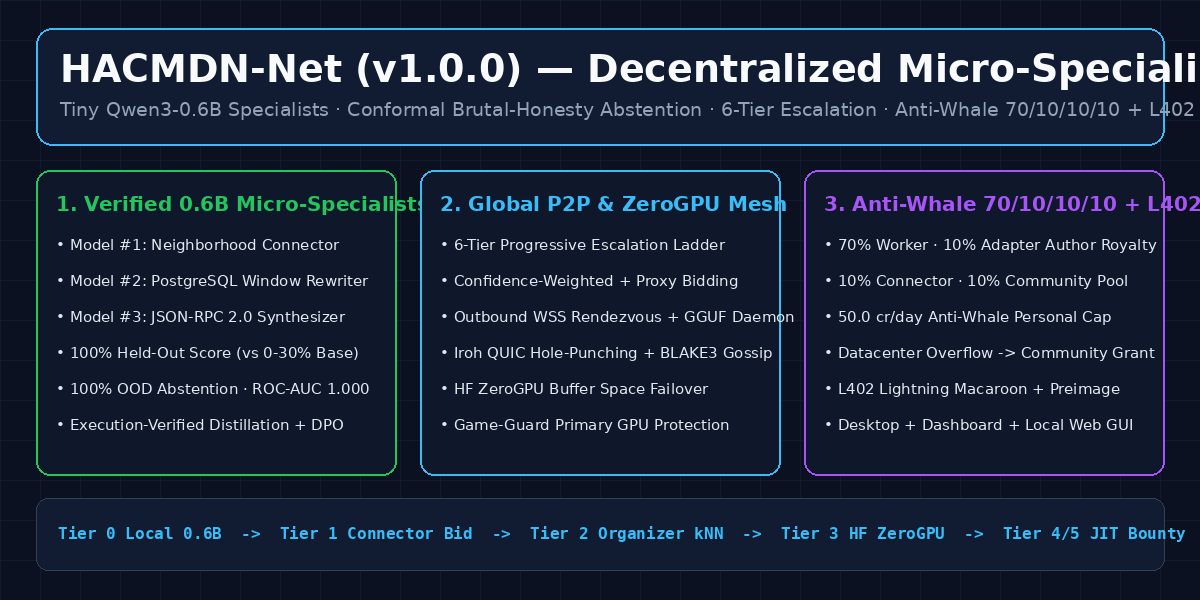
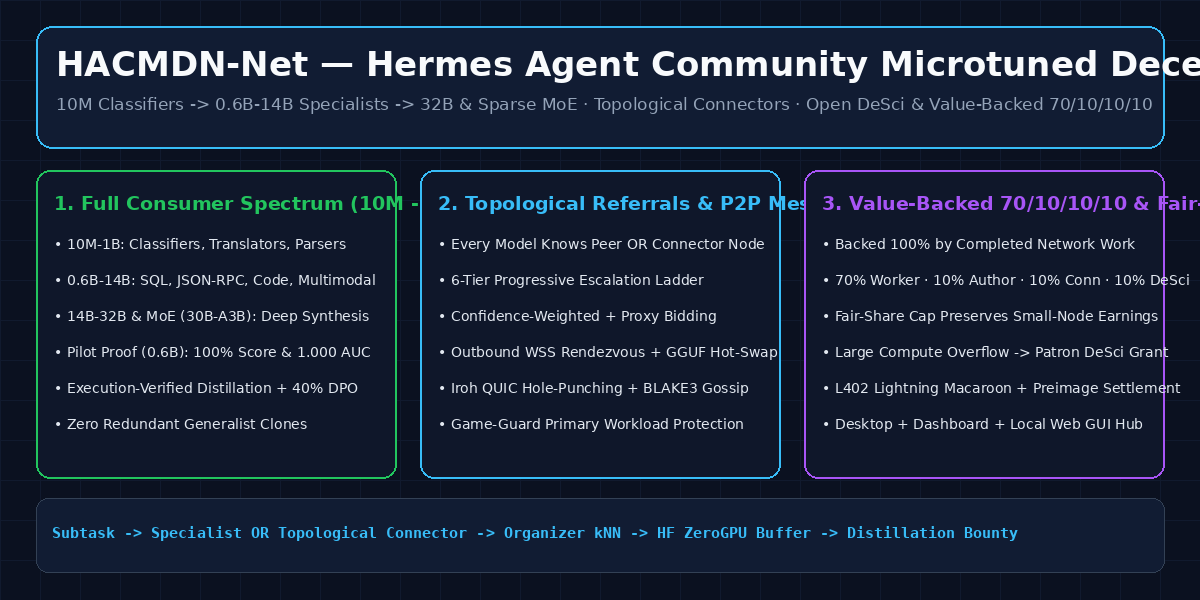
feat(v1.0.0): expand specialist spectrum (10M-32B/MoE), topological referrals & Fair-Share Patron Overflow

diff --git a/desktop/plugin.js b/desktop/plugin.js
@@ -76,7 +76,7 @@ function HacmdnDesktopPane({ ctx }) {
         children: [
           jsx('div', {
             className: 'font-medium text-(--ui-text-secondary)',
-            children: '70/10/10/10 Attribution & Anti-Whale Cap',
+            children: '70/10/10/10 Value-Backed Attribution & Fair-Share Cap',
           }),
           jsx('div', {
             className: 'mt-1 text-[11px] text-(--ui-text-tertiary)',

diff --git a/gui.py b/gui.py
@@ -266,15 +266,15 @@ def render_hub_html(snapshot: dict[str, Any]) -> str:
 
   <div class="panel" style="margin-bottom:10px;">
     <div class="panel-title">
-      <span>🛡 Anti-Whale Community Cap &amp; Datacenter Overflow Protection</span>
-      <span class="item-sub">{worker_cr:.2f} / {daily_cap:.1f} cr daily personal cap ({cap_pct:.1f}%)</span>
+      <span>🤝 Community Fair-Share Cap &amp; Value-Backed Patron Overflow</span>
+      <span class="item-sub">{worker_cr:.2f} / {daily_cap:.1f} cr daily fair-share cap ({cap_pct:.1f}%)</span>
     </div>
     <div class="bar-bg"><div class="bar-fill" style="width:{max(4.0, min(100.0, cap_pct))}%;"></div></div>
     <div class="item-sub">
       {html.escape(str(policy.get("split_formula", "")))} — {html.escape(str(policy.get("overflow_policy", "")))}
     </div>
     <div class="btn-row">
-      <button class="act-btn" data-hermes-send="Use hacmdn_contributor_hub with action='simulate_datacenter_overflow' and raw_datacenter_credits=120.0, then refresh the hub preview widget">⚡ Simulate Datacenter Overflow (+120 cr)</button>
+      <button class="act-btn" data-hermes-send="Use hacmdn_contributor_hub with action='simulate_datacenter_overflow' and raw_datacenter_credits=120.0, then refresh the hub preview widget">⚡ Simulate Patron Compute Overflow (+120 cr)</button>
       <button class="act-btn" data-hermes-send="Use hacmdn_contributor_hub with action='settle_l402_and_dividends', then refresh the hub preview widget">⚡ Settle L402 Lightning &amp; Dividends</button>
       <button class="act-btn" data-hermes-send="Use hacmdn_worker_pool with action='sync_rendezvous_daemon', then refresh the hub preview widget">🛰 Sync Rendezvous + GGUF Daemon</button>
       <button class="act-btn" data-hermes-send="Use hacmdn_worker_pool with action='gossip_and_holepunch_p2p', then refresh the hub preview widget">🔗 Iroh QUIC + BLAKE3 Gossip</button>

diff --git a/network.py b/network.py
@@ -37,7 +37,12 @@ APPROVED_BASE_MODELS = (
     "Qwen/Qwen3-0.6B",
     "Qwen/Qwen3-1.7B",
     "Qwen/Qwen3-4B",
+    "Qwen/Qwen3-8B",
+    "Qwen/Qwen3-14B",
+    "Qwen/Qwen3-32B",
+    "Qwen/Qwen3-30B-A3B",
     "NousResearch/Hermes-4-14B",
+    "NousResearch/Hermes-4-32B",
 )
 
 APPROVED_HARNESSES = (
@@ -2488,9 +2493,11 @@ class HermesSpecialistNetwork:
             snapshot = {
                 "operator_id": operator_id,
                 "anti_whale_policy": {
+                    "policy_name": "Community Fair-Share Cap & Patron Compute Overflow",
                     "daily_personal_cap_credits": daily_cap,
-                    "split_formula": "70% Worker | 10% Adapter Author Royalty | 10% Connector/Organizer | 10% Shared Community Pool",
-                    "overflow_policy": "100% of compute above 50.0 cr/day converts into a Philanthropic Community & Open-Science Dividend Grant",
+                    "value_backing": "100% backed by verified tasks & workflows actually completed on the network (zero unbacked inflation)",
+                    "split_formula": "70% Executing Worker | 10% Specialist Author Royalty | 10% Connector/Organizer | 10% DeSci & Community Pool",
+                    "overflow_policy": "Preserves low-compute contributor earnings against dilution while welcoming large-scale compute above 50.0 cr/day as a Community Patron & DeSci Overflow Grant",
                     "network_datacenter_overflow_pool_credits": round(total_overflow, 4),
                 },
                 "earnings_summary": {

diff --git a/space_zerogpu_buffer/network.py b/space_zerogpu_buffer/network.py
@@ -37,7 +37,12 @@ APPROVED_BASE_MODELS = (
     "Qwen/Qwen3-0.6B",
     "Qwen/Qwen3-1.7B",
     "Qwen/Qwen3-4B",
+    "Qwen/Qwen3-8B",
+    "Qwen/Qwen3-14B",
+    "Qwen/Qwen3-32B",
+    "Qwen/Qwen3-30B-A3B",
     "NousResearch/Hermes-4-14B",
+    "NousResearch/Hermes-4-32B",
 )
 
 APPROVED_HARNESSES = (
@@ -2488,9 +2493,11 @@ class HermesSpecialistNetwork:
             snapshot = {
                 "operator_id": operator_id,
                 "anti_whale_policy": {
+                    "policy_name": "Community Fair-Share Cap & Patron Compute Overflow",
                     "daily_personal_cap_credits": daily_cap,
-                    "split_formula": "70% Worker | 10% Adapter Author Royalty | 10% Connector/Organizer | 10% Shared Community Pool",
-                    "overflow_policy": "100% of compute above 50.0 cr/day converts into a Philanthropic Community & Open-Science Dividend Grant",
+                    "value_backing": "100% backed by verified tasks & workflows actually completed on the network (zero unbacked inflation)",
+                    "split_formula": "70% Executing Worker | 10% Specialist Author Royalty | 10% Connector/Organizer | 10% DeSci & Community Pool",
+                    "overflow_policy": "Preserves low-compute contributor earnings against dilution while welcoming large-scale compute above 50.0 cr/day as a Community Patron & DeSci Overflow Grant",
                     "network_datacenter_overflow_pool_credits": round(total_overflow, 4),
                 },
                 "earnings_summary": {

diff --git a/docs/CATALOG_PR_BODY.md b/docs/CATALOG_PR_BODY.md
@@ -2,18 +2,13 @@
 
 Adds **`hacmdn`** (**HACMDN-Net — Hermes Agent Community Microtuned Decentralized Network**, `v1.0.0`) to `plugin-catalog/hacmdn.yaml`, pinned to [`Jpalmer95/hacmdn-net@11ac5d7a22222e607900719ddd3f822b5c183f83`](https://github.com/Jpalmer95/hacmdn-net/commit/11ac5d7a22222e607900719ddd3f822b5c183f83).
 
-Instead of routing every task to a monolithic frontier LLM or sharding one giant model across nodes, **HACMDN-Net** organizes a neighborhood mesh of **tiny, minimum-viable fine-tuned specialists** (`Qwen/Qwen3-0.6B` to `4B` Apache-2.0 base family) that:
-1. **Excel at narrow contracts with calibrated brutal honesty:** Each `0.6B` LoRA specialist is trained on a strict input/output transformation plus an explicit conformal abstention boundary (`[ABSTAIN: OUT_OF_SCOPE]`). In our held-out pilot benchmark (`data/pilot_eval_results.json`), all 3 starting `Qwen/Qwen3-0.6B` LoRA specialists achieved **100% held-out accuracy** (vs `0%–30%` untouched base), **100% OOD abstention**, and **1.0000 ROC-AUC** while running on spare CPU threads alongside an active GPU workload.
-2. **Route via Neighborhood Connectors, Confidence-Weighted Bidding & a 6-Tier Escalation Ladder:**
-   - **Tier 0:** Local Micro-Specialist (`0.6B` LoRA)
-   - **Tier 1:** Fine-tuned Neighborhood Connector (`jkorstad/hacmdn-qwen3-0.6b-neighborhood-connector-v1`) + Confidence-Weighted Direct & Proxy Bids
-   - **Tier 2:** Organizer Super-Peer Cross-Neighborhood `kNN` Bridge
-   - **Tier 3:** Hugging Face ZeroGPU Community Load-Balancing Buffer ([`jkorstad/hacmdn-community-buffer`](https://huggingface.co/spaces/jkorstad/hacmdn-community-buffer))
-   - **Tier 4 / Tier 5:** Upstream Generalist Handoff (`NousResearch/Hermes-4-14B`) + Structured Network Abstention that automatically opens an escrowed **JIT Fine-Tuning Bounty**
-3. **Close the loop with an Execution-Verified Synthetic Distillation Factory (`training/distill_specialist.py`):** Synthesizes candidate training pairs for recurring abstention gaps, filters every candidate through deterministic execution verifiers (in-memory `sqlite3` SQL/window execution, JSON-RPC 2.0 schema validation, Python AST contract inspection), mixes a **40% Hard-Negative + OOD Boundary Abstention DPO curriculum**, calibrates the conformal threshold ($\le 10\%$ wrong-accept risk), and enforces **Eval-Before-Gossip** (`eval_score >= base_model_score + 0.15`).
-4. **Protect hobbyists with a 70/10/10/10 Shared-Entity Split, Anti-Whale Cap & L402 Lightning Settlement:**
-   - **70% Worker / 10% Adapter Author Royalty / 10% Connector / 10% Shared Community Pool**
-   - **50.0 cr/day Anti-Whale Personal Cap:** Compute donated above the daily personal cap by mega-clusters/datacenters overflows 100% into the **Philanthropic Community Dividend & Open-Science Pool**, enriching small contributors rather than diluting them.
+Instead of routing every task to a monolithic frontier LLM or running 100 identical copies of the same generalist model, **HACMDN-Net** (**H**ermes **A**gent **C**ommunity **M**icrotuned **D**ecentralized **N**etwork) coordinates a self-organizing neighborhood mesh of **laser-focused niche specialists across the entire consumer-grade spectrum (`10M` classifiers/translators $\rightarrow$ `0.6B–14B` micro-models $\rightarrow$ `32B` dense & sparse MoE models with small active parameter footprints)** across modalities:
+1. **Multi-Tier Specialization & Pilot Proof-of-Work:** Even a tiny classifier or translation model on a laptop can execute an efficient subtask inside a larger DeSci or community workflow. In our held-out pilot benchmark (`data/pilot_eval_results.json`) testing the `0.6B` micro-tier, all 3 fine-tuned `Qwen/Qwen3-0.6B` LoRA specialists achieved **100% held-out accuracy** (vs `0%–30%` untouched base), **100% OOD abstention**, and **1.0000 ROC-AUC** while running on spare CPU threads alongside an active GPU workload.
+2. **Topological Referral, Neighborhood Connectors & 6-Tier Escalation:** Every model either knows the exact specialist to refer a project/subtask to, OR knows a **Neighborhood Connector (`Model #1`)** or **Organizer Super-Peer** with richer topological contacts up a **6-Tier Escalation Ladder** (failing over to the live **Hugging Face ZeroGPU Buffer Space** [`jkorstad/hacmdn-community-buffer`](https://huggingface.co/spaces/jkorstad/hacmdn-community-buffer) when P2P nodes are offline).
+3. **Execution-Verified Synthetic Distillation Factory (`training/distill_specialist.py`):** Synthesizes candidate training pairs for recurring abstention gaps, filters every candidate through deterministic execution verifiers (in-memory `sqlite3` SQL/window execution, JSON-RPC 2.0 schema validation, Python AST contract inspection), mixes a **40% Hard-Negative + OOD Boundary Abstention DPO curriculum**, calibrates the conformal threshold ($\le 10\%$ wrong-accept risk), and enforces **Eval-Before-Gossip** (`eval_score >= base_model_score + 0.15`).
+4. **Value-Backed 70/10/10/10 Attribution, Fair-Share Cap & Patron Compute Overflow + L402 Settlement:**
+   - All earnings are **100% backed by the value of verified work actually completed by the network** and distributed **70% Executing Worker / 10% Specialist Author Royalty / 10% Connector / 10% DeSci & Community Pool**.
+   - **Community Fair-Share Cap (`50.0 cr/day`) & Patron Overflow:** Preserves the earning power of low-compute contributors against dilution while welcoming large-scale compute above `50.0 cr/day` as a **Community Patron & DeSci Compute Grant** that flows into shared community dividends and open science.
    - **L402 Lightning Settlement:** Settles accumulated credits & cooperative dividends into cryptographic L402 macaroons (`HMAC-SHA256` caveats) + `SHA-256` preimage commitments and BOLT11 invoices.
 
 ---

diff --git a/README.md b/README.md
@@ -4,13 +4,12 @@
 [![HF Collection](https://img.shields.io/badge/🤗_HF_Collection-HACMDN--Net-yellow)](https://huggingface.co/collections/jkorstad/hacmdn-net-hermes-community-microtuned-specialist-network-6aef78f6e0ea208136c602e5)
 [![ZeroGPU Space](https://img.shields.io/badge/🤗_ZeroGPU_Buffer-jkorstad%2Fhacmdn--community--buffer-indigo)](https://huggingface.co/spaces/jkorstad/hacmdn-community-buffer)
 
-**HACMDN-Net** (*Hermes Agent Community Microtuned Decentralized Network*) is a native **Hermes Agent Plugin** (`hacmdn`) and decentralized specialist routing protocol. Instead of routing every task to a monolithic generalist LLM or sharding one giant model across nodes, HACMDN-Net organizes a community of **tiny, minimum-viable fine-tuned specialists** (`Qwen/Qwen3-0.6B` LoRA adapters) that:
+**HACMDN-Net** (**H**ermes **A**gent **C**ommunity **M**icrotuned **Decentralized** **N**etwork) is a native **Hermes Agent Plugin** (`hacmdn`) and decentralized specialist routing mesh. Instead of sending every subtask to a monolithic cloud LLM — or having 1,000 community nodes all run redundant copies of the same generalist base model — HACMDN-Net coordinates a diverse ecosystem of **laser-focused niche specialists across the entire consumer-grade spectrum (`10M` classifiers/translators $\rightarrow$ `0.6B–14B` micro-models $\rightarrow$ `32B` dense & sparse MoE models with small active parameters)** across modalities:
 
-1. **Excel at narrow tasks** while remaining small enough (`0.6B` parameters) to run on spare consumer compute (even on CPU while a AAA game occupies the GPU!).
-2. **Practice calibrated brutal honesty (Abstention as a First-Class Primitive):** Every specialist is trained and conformal-calibrated to know when a prompt is out of scope (`[ABSTAIN: OUT_OF_SCOPE]`).
-3. **Interconnect through Neighborhood Connectors & Organizer Super-Peers:** Model #1 (`qwen3-0.6b-neighborhood-connector-v1`) knows the heads of niche groupings, coordinates a **Confidence-Weighted Bidding Protocol** (including proxy bids on behalf of downstream micro-models), and routes tasks through a **6-Tier Progressive Upstream Escalation Ladder**.
-4. **Use Hugging Face ZeroGPU Spaces as a Load-Balancing Buffer:** When a niche specialist has zero live P2P workers online (`TTL` expired), requests transparently fail over to the **Tier 3 ZeroGPU Community Buffer Space** ([`jkorstad/hacmdn-community-buffer`](https://huggingface.co/spaces/jkorstad/hacmdn-community-buffer)) backed by the canonical Hugging Face Community Collection.
-5. **Close the Loop with a JIT Fine-Tuning Flywheel & Idle Compute Pool:** Recurring network abstentions automatically open **JIT Fine-Tuning Bounties**; contributors fine-tune `Qwen/Qwen3-0.6B`, pass **Eval-Before-Gossip (`verified-on-entry`)**, publish their Capability Descriptor, and claim escrowed rewards. Idle nodes contribute to community-voted directives (`open-science`, `local-business-aid`, `network-calibration`).
+1. **Multi-Tier & Multi-Modal Specialization (`Millions of Params → 32B` & Sparse MoE):** Even a tiny classifier, parser, or translation model on a laptop CPU can execute an essential subtask inside a larger distributed workflow (`DeSci`, community R&D, or local business automation), while `8B–32B` and low-active-parameter MoE models on 8–24 GB consumer GPUs handle deep synthesis and orchestration.
+2. **Topological Referral & Connector Routing + Calibrated Brutal Honesty:** Every model in the mesh is trained to know its exact boundary (`[ABSTAIN: OUT_OF_SCOPE]`) and **either knows the right specialist to refer a subtask to, OR knows a Neighborhood Connector (`Model #1`) or Organizer Super-Peer with richer topological contacts** up the 6-Tier Escalation Ladder to route the work across the community mesh.
+3. **Value-Backed 70/10/10/10 Attribution & Community Fair-Share Cap (With Patron Compute Overflow):** All network earnings are **100% backed by the real value of verified work actually completed** (never unbacked inflation), split **70% Executing Worker / 10% Specialist Author Royalty / 10% Connector / 10% DeSci & Community Pool**. To preserve the earning capability of everyday low-compute contributors without dilution, personal daily rewards have a **Community Fair-Share Cap (`50.0 cr/day`)** — while any additional compute generously contributed by large clusters is welcomed as a **Patron Compute Overflow Grant** that funds open science and shared community dividends.
+4. **ZeroGPU Buffer & Execution-Verified Distillation Factory:** Cold or unhosted niches fail over to the **Tier 3 Hugging Face ZeroGPU Community Buffer Space** ([`jkorstad/hacmdn-community-buffer`](https://huggingface.co/spaces/jkorstad/hacmdn-community-buffer)), while recurring abstention gaps trigger the **Autonomous Distillation Factory (`training/distill_specialist.py`)** using deterministic execution verifiers + 40% hard-negative boundary DPO.
 
 ---
 

diff --git a/MASTER_PLAN.md b/MASTER_PLAN.md
@@ -10,13 +10,13 @@
 
 ## 1. Executive Summary & Core Philosophy
 
-**HACMDN-Net** enables anyone, anywhere to install a lightweight **Hermes Agent Plugin (`hacmdn`)**, join a decentralized neighborhood of tiny fine-tuned specialist models (`Qwen/Qwen3-0.6B` to `4B` Apache-2.0 base family), and opt in their spare CPU or GPU cycles to serve high-efficacy narrow tasks, train missing niche models, or advance community-voted open science and local business initiatives.
+**HACMDN-Net** (**H**ermes **A**gent **C**ommunity **M**icrotuned **D**ecentralized **N**etwork) enables anyone, anywhere to install a lightweight **Hermes Agent Plugin (`hacmdn`)**, join a self-organizing neighborhood mesh of **laser-focused niche specialist models spanning the entire consumer-grade spectrum (`10M` classifiers/translators $\rightarrow$ `0.6B–14B` micro-models $\rightarrow$ `32B` dense & low-active-parameter Sparse MoE models)** across modalities, and contribute their spare CPU or GPU cycles to high-efficacy tasks, **open DeSci (Decentralized Science)**, and community-led distributed projects.
 
-Unlike monolithic cloud APIs or datacenter-dominated DePIN networks:
-1. **Small Models Excel by Refusing to Be Generalists:** A `0.6B` LoRA model trained on a strict input/output contract with **calibrated brutal honesty (`[ABSTAIN: OUT_OF_SCOPE]`)** matches or beats generalists on its narrow domain while running comfortably on a laptop CPU or spare gaming PC threads.
-2. **Neighborhoods Over Central Routers:** Tasks route through fine-tuned **Neighborhood Connectors** (`Model #1`), **Confidence-Weighted Bidding**, and **Organizer Super-Peers** up a **6-Tier Progressive Escalation Ladder**, backed by a **Hugging Face ZeroGPU Buffer** when P2P workers are offline.
-3. **Community-First Attribution with Anti-Whale / Anti-Datacenter Caps:** Every contributor earns transparent attribution and shared-entity payout credits across a **70% Worker / 10% Adapter Author Royalty / 10% Connector / 10% Community Pool** split. Per-operator daily rewards follow a **concave curve with a hard Community Cap**; any excess compute donated by mega-clusters or datacenters overflows into the **Shared Community Dividend & Open-Science Pool**, enriching small contributors rather than diluting them.
-4. **Optional Lightweight GUI Hub:** Ships with an opt-in GUI across **Hermes Desktop** (`desktop/plugin.js`), **Hermes Web Dashboard** (`dashboard/`), and a **Standalone Local Hub (`hermes hacmdn gui`)** so operators can see live compute allocation, inference contributed, ideas pitched, and accumulated earnings.
+Unlike monolithic cloud APIs or homogeneous compute pools that run 100 identical generalist models:
+1. **Multi-Tier Consumer Spectrum (`Millions of Params → 32B` & Sparse MoE):** Small and mid-sized models excel when laser-focused on a strict input/output contract with **calibrated brutal honesty (`[ABSTAIN: OUT_OF_SCOPE]`)**. Even a tiny classifier or translation model on a laptop can execute an essential subtask within a larger workflow, while `0.6B` LoRA specialists served as our de-risking pilot (`100%` held-out accuracy & `1.000` ROC-AUC).
+2. **Topological Referral & Neighborhood Connectors:** Every specialist either knows where to refer a subtask directly, OR knows a **Neighborhood Connector (`Model #1`)** or **Organizer Super-Peer** with richer topological contacts up the **6-Tier Progressive Escalation Ladder**, backed by a **Hugging Face ZeroGPU Buffer** when P2P workers are offline.
+3. **Value-Backed 70/10/10/10 Attribution, Fair-Share Cap & Patron Compute Overflow:** All earnings are **100% backed by the economic value of verified work actually completed by the network**, distributed across **70% Executing Worker / 10% Specialist Author Royalty / 10% Connector / 10% DeSci & Community Pool**. To preserve the earning capability of low-compute contributors without dilution, personal daily payouts have a **Community Fair-Share Cap (`50.0 cr/day`)**; additional compute generously contributed by large-scale operators is welcomed into the **Patron Compute Overflow & DeSci Dividend Pool**.
+4. **Optional Lightweight GUI Hub:** Ships with an opt-in GUI across **Hermes Desktop** (`desktop/plugin.js`), **Hermes Web Dashboard** (`dashboard/`), and a **Standalone Local Hub (`hermes hacmdn gui`)**.
 
 ---
 
